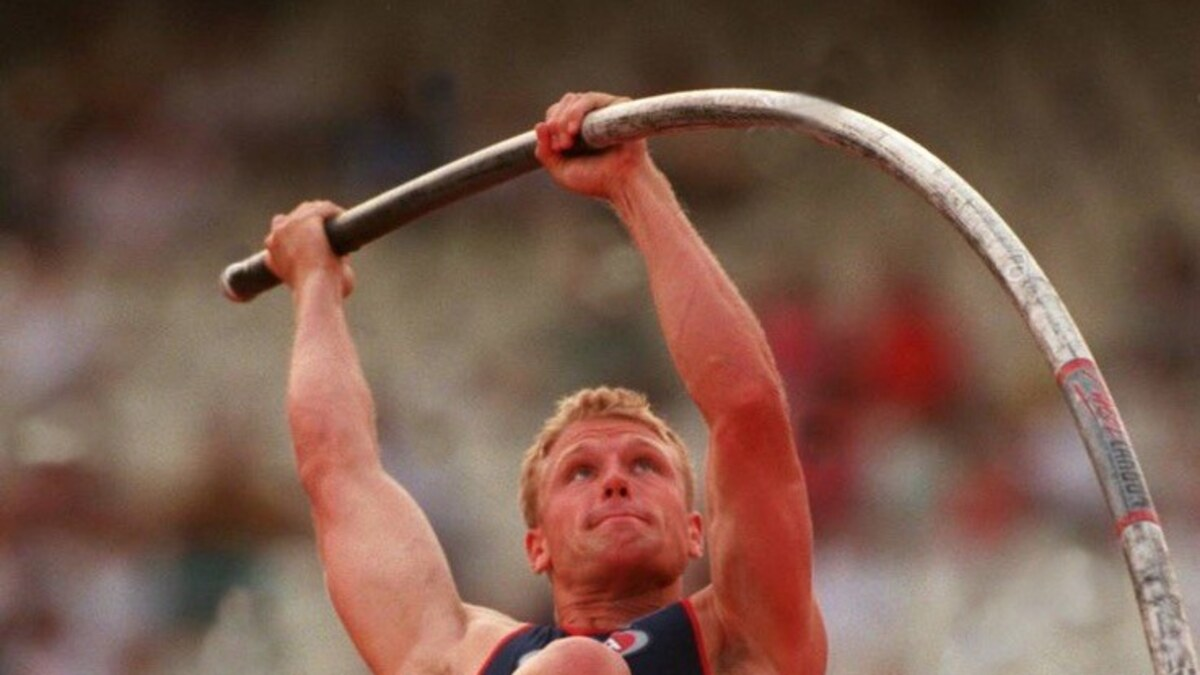
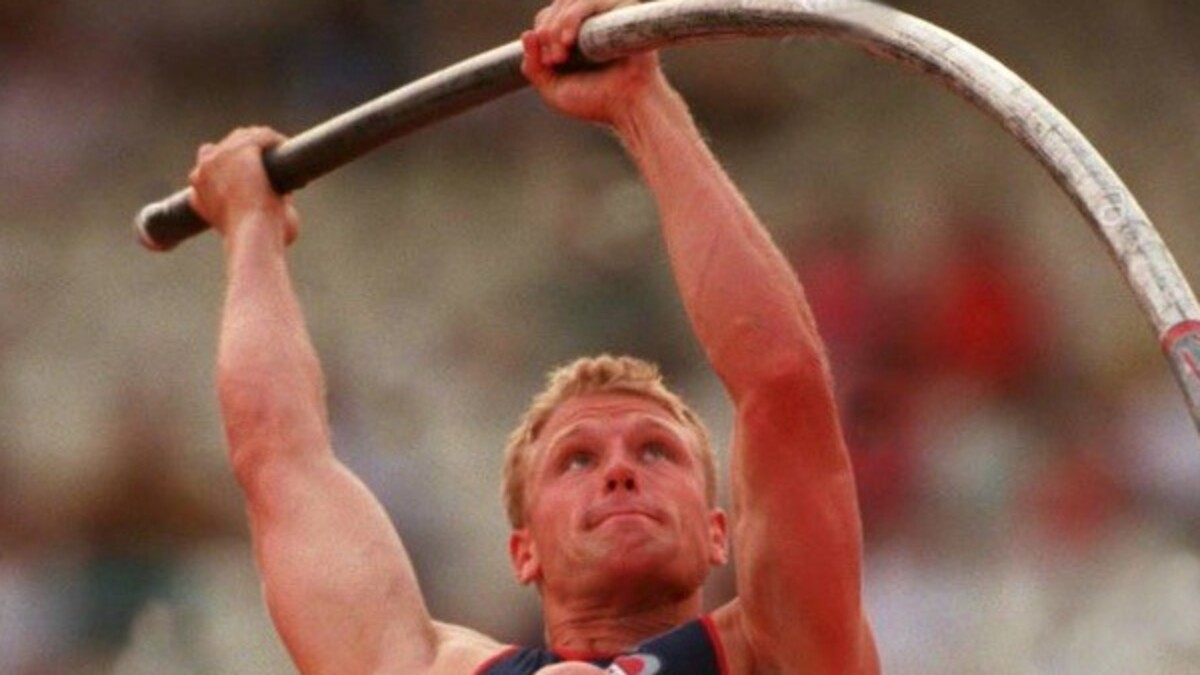
Reorder coaches and tighten home hero fill
Sort Team list Dean → Garrett → Tray → Nathan → Jill → Michael via order frontmatter, and replace the hero vault crop plus CSS frame so the action shot covers its box without empty bands.

diff --git a/src/styles/global.css b/src/styles/global.css
@@ -896,18 +896,21 @@ p {
   border: 0;
 }
 
+.hero-action-frame {
+  aspect-ratio: 16 / 9;
+  overflow: hidden;
+  border-radius: 12px;
+  margin: 0 0 1rem;
+  border: 1px solid rgba(255, 255, 255, 0.18);
+  background: #0a1628;
+}
+
 .hero-action-shot {
   width: 100%;
-  aspect-ratio: 16 / 9;
-  height: auto;
-  max-height: none;
+  height: 100%;
   object-fit: cover;
-  object-position: center center;
+  object-position: center 40%;
   display: block;
-  border-radius: 12px;
-  margin-bottom: 1rem;
-  border: 1px solid rgba(255, 255, 255, 0.18);
-  background: rgba(0, 0, 0, 0.25);
 }
 
 /* Ask Maya floating widget */

diff --git a/src/content/coaches/jill-starkey.md b/src/content/coaches/jill-starkey.md
@@ -1,7 +1,7 @@
 ---
 name: Jill Starkey
 role: Coach
-order: 3
+order: 5
 pbs: "PB 14'1\" (4.32m)"
 credentials: World Masters Champion · Olympic Trials · Athlete-first fundamentals
 featured: true

diff --git a/src/content/coaches/tray-oates.md b/src/content/coaches/tray-oates.md
@@ -1,7 +1,7 @@
 ---
 name: Tray Oates
 role: Coach/Facilities Director
-order: 5
+order: 3
 pbs: "PB 19'1\" (5.82m)"
 credentials: Samford University · 4th USA Indoor Championships
 featured: false
